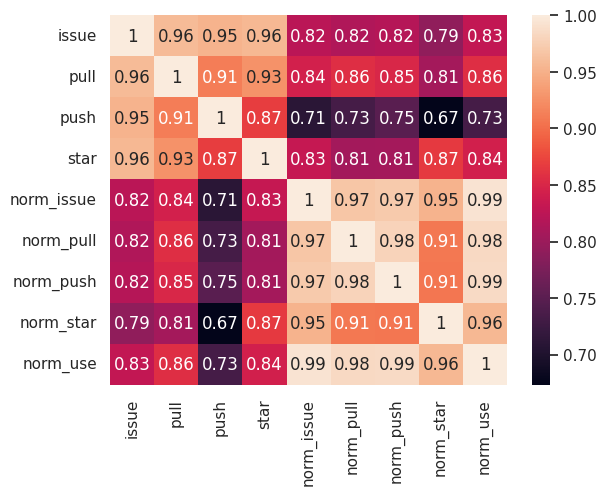
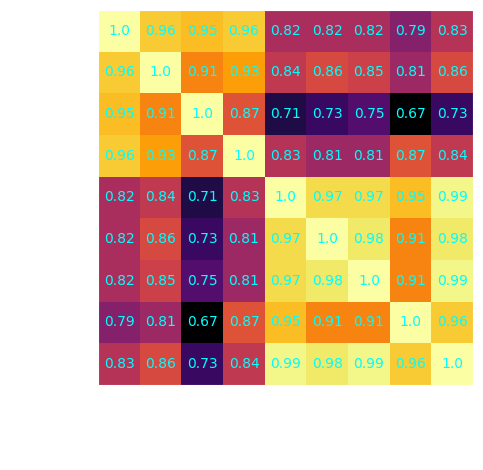
fix heatmap format

diff --git a/scripts/question4.py b/scripts/question4.py
@@ -1,6 +1,6 @@
 import numpy as np
 import pandas as pd
-import seaborn as sns
+import matplotlib.pyplot as plt
 import pathlib
 
 ROOT = pathlib.Path(__file__).parent.parent.resolve()
@@ -14,8 +14,26 @@ if not DATA_FILE.is_file():
 df = pd.read_csv(DATA_FILE)
 df.drop(columns = ["year", "quarter", "repo", "uid", "name"], inplace = True)
 
-sns.set(font_scale = 1)
-svm = sns.heatmap(df.corr(), xticklabels = True, yticklabels = True, annot=True)
-figure = svm.get_figure()
+correlations = np.round(df.corr().to_numpy(), decimals=2)
 
-figure.savefig(OUTPUT.joinpath("correlation_heatmap.png"), bbox_inches="tight", transparent = True)
+#plt.style.use('https://github.com/dhaitz/matplotlib-stylesheets/raw/master/pitayasmoothie-dark.mplstyle')
+plt.style.use(['dark_background'])
+
+fig, ax = plt.subplots()
+im = ax.imshow(correlations, cmap = 'inferno')
+
+# Show all ticks and label them with the respective list entries
+ax.set_xticks(np.arange(len(list(df.columns))), labels=list(df.columns))
+ax.set_yticks(np.arange(len(list(df.columns))), labels=list(df.columns))
+
+# Rotate the tick labels and set their alignment.
+plt.setp(ax.get_xticklabels(), rotation=45, ha="right", rotation_mode="anchor")
+
+# Loop over data dimensions and create text annotations.
+for i in range(len(list(df.columns))):
+    for j in range(len(list(df.columns))):
+        text = ax.text(j, i, correlations[i, j], ha="center", va="center", color="aqua")
+
+fig.tight_layout()
+
+plt.savefig(OUTPUT.joinpath("correlation_heatmap.png"), bbox_inches="tight", transparent = True)
